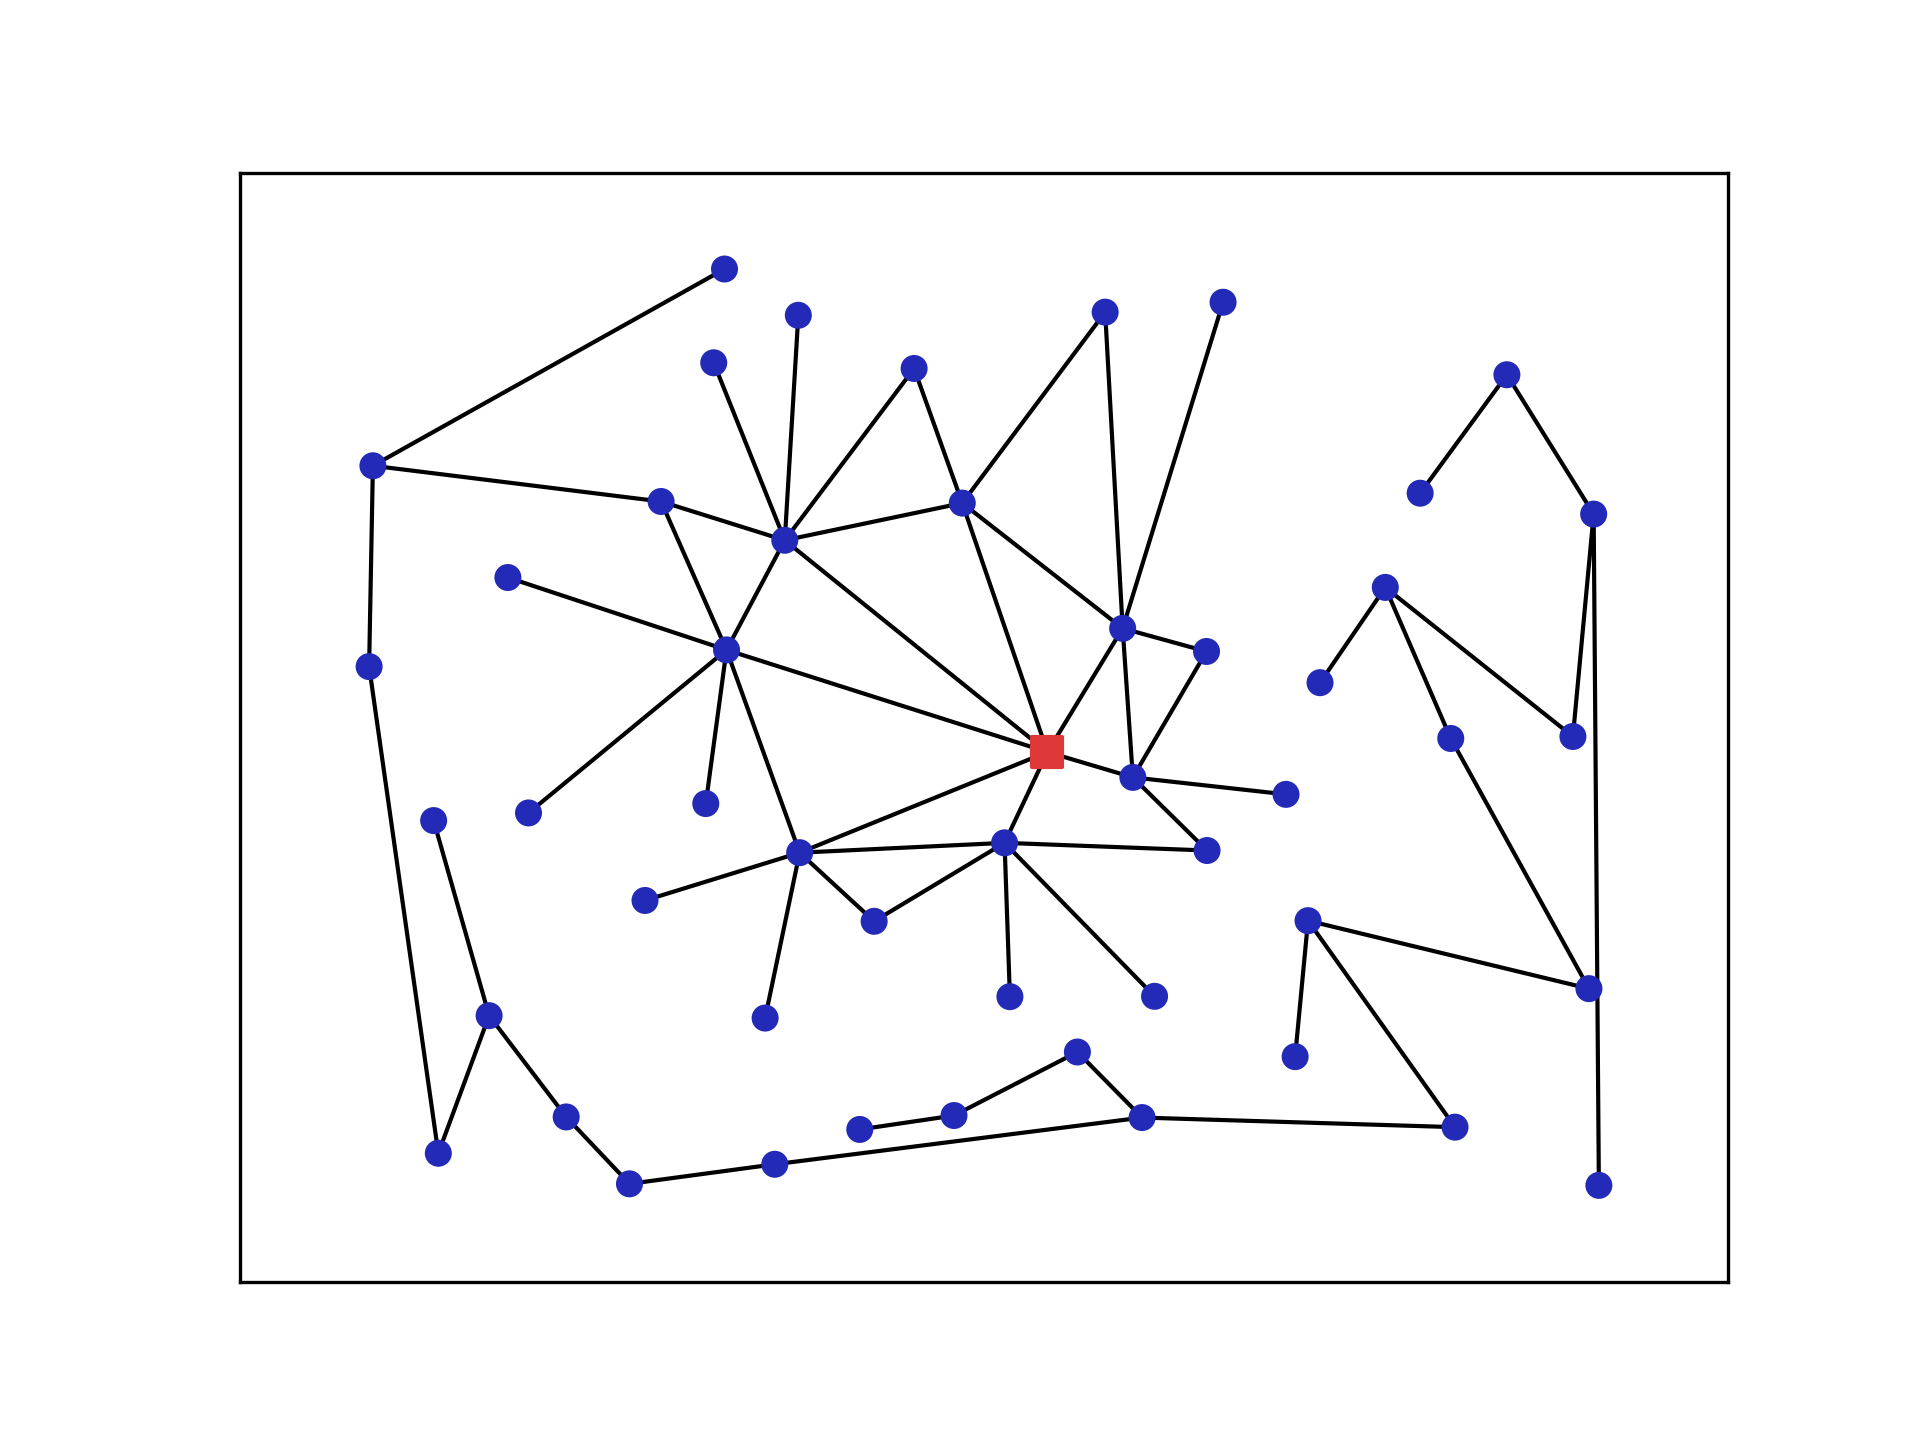
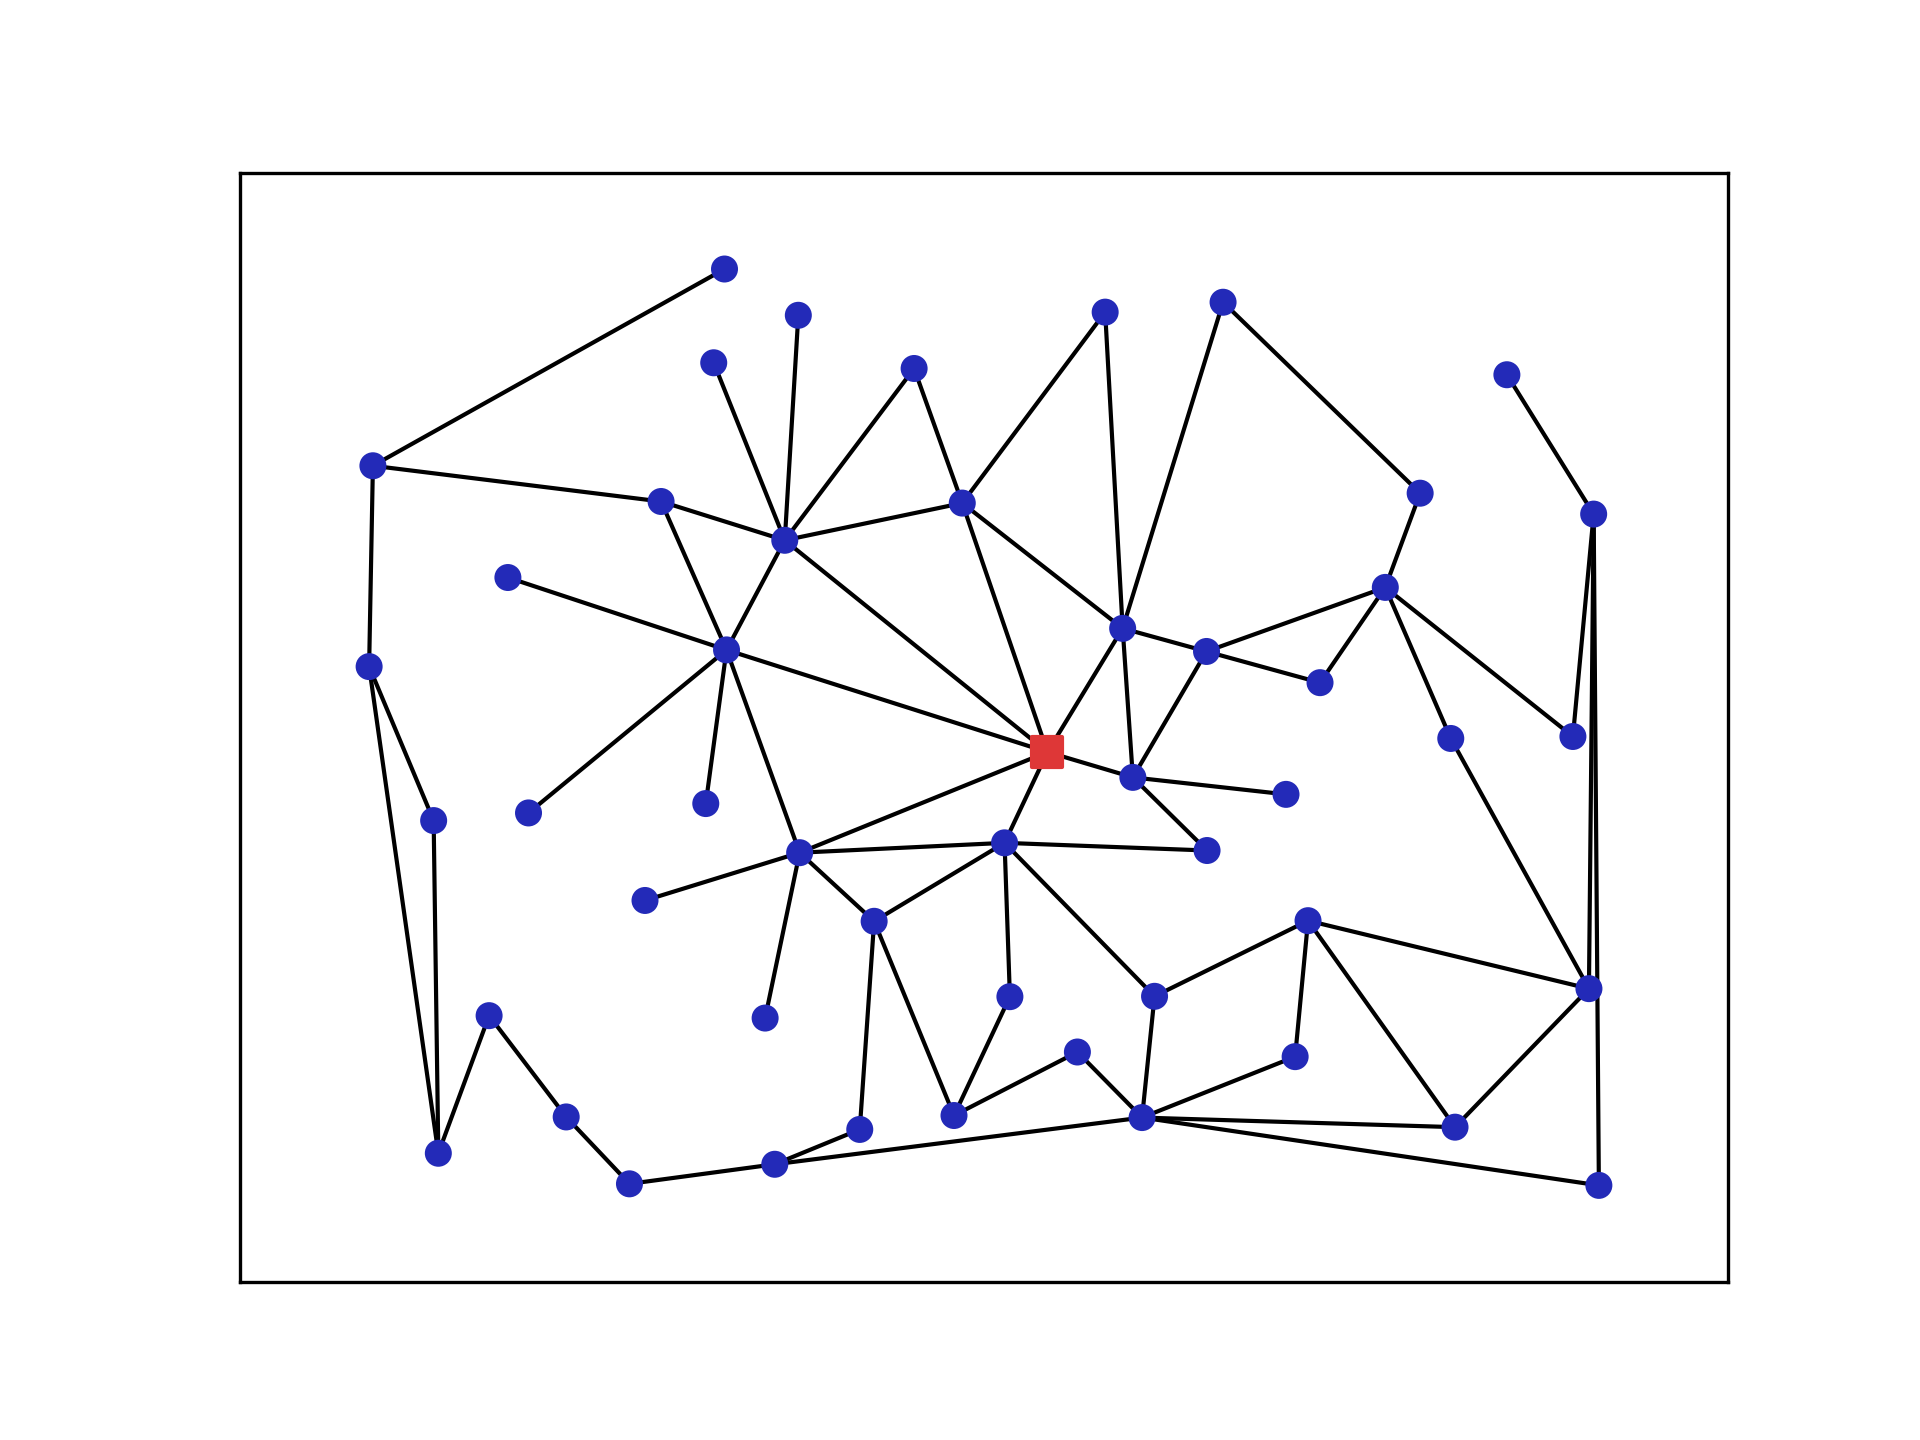
creating subproblem based on the access of the hub (i)

diff --git a/IsolatingData.py b/IsolatingData.py
@@ -1,0 +1,156 @@
+from turtle import color
+from reading_pickles import InputStructure
+from reading_pickles import read_data
+from gurobi_eng import Gurobi_Solve
+import pylab
+import os
+import pickle
+
+import numpy as np
+import networkx as nx
+import matplotlib.pyplot as plt
+
+import os
+from data_structures import OutputStructure
+import os
+
+def Write_Draw(Input: InputStructure, Output: OutputStructure):
+
+    CurrectFolder = os.path.dirname(os.path.abspath(__file__))
+    GNNPICOUT = CurrectFolder + "/GNNPICOUT"
+    GNNINPUT = CurrectFolder + "/GNNINPUT"
+
+    if not os.path.isdir(GNNPICOUT):
+        os.mkdir(GNNPICOUT)
+
+    FNAMEI = GNNPICOUT + '/' + Input.Fname + '_I.png'
+    FNAMED = GNNINPUT + '/' + str(int(Input.Fname)+70000) + '.txt'
+
+
+    if os.path.isfile(FNAMEI):
+        os.remove(FNAMEI)
+
+    if os.path.isfile(FNAMED):
+        os.remove(FNAMED)
+    
+
+    edgelistO = []
+    edgelistC = []
+    
+    edge_colors= ["#737373","#000000","#a9b0aa","#80d189","#ccbfbe","#ccbfbe","#ccbfbe"]
+
+    for i in range(Input.n-1):
+        for j in range(i+1, Input.n):
+            if Output.X[i][j] > 0.5:
+                edgelistO.append((i,j))
+                edgelistC.append(edge_colors[1])
+            elif Input.A[i,j] > 0.5:
+                edgelistO.append((i,j))
+                edgelistC.append(edge_colors[0])
+
+
+    NodeE = set()
+    for i in range(Input.n-1):
+        for j in range(i+1, Input.n):
+            if Output.X[i][j] > 0.5:
+                NodeE.update(set([i]))
+                NodeE.update(set([j]))
+
+
+    Positions = {}
+    n = Input.n
+    for x in range(Input.n):
+        Positions[x]=(Input.Pos[x][0],Input.Pos[x][1])
+    
+
+    node_colors= ["#232ab8","#de3737","#a9b0aa","#80d189","#ccbfbe","#ccbfbe","#ccbfbe"]
+    node_sizes = [30,50,7000,9000,11000,13000,15000]
+    node_shapes = ['s', 'o']
+
+
+    G = nx.Graph()
+    G.add_nodes_from(Positions.keys())
+    for a,p in Positions.items():
+        G.nodes[a]['pos'] = p 
+        if a == Input.sr:
+            G.nodes[a]['color'] = node_colors[1]
+            G.nodes[a]['size'] = node_sizes[1]
+            G.nodes[a]['shape'] = node_shapes[0]
+        elif a in NodeE:
+            G.nodes[a]['color'] = node_colors[0]
+            G.nodes[a]['size'] = node_sizes[0]
+            G.nodes[a]['shape'] = node_shapes[1]
+        else:
+            G.nodes[a]['color'] = node_colors[2]
+            G.nodes[a]['size'] = node_sizes[0]
+            G.nodes[a]['shape'] = node_shapes[1]
+
+    G.add_edges_from(edgelistO)
+
+    #nx.draw(G, Positions)
+    nx.draw_networkx_edges(G, Positions, edge_color=edgelistC)
+    '''
+    for shape in set(node_shapes):
+        # the nodes with the desired shapes
+        node_list = [node for node in G.nodes() if G.nodes[node]['shape'] == shape]
+        nx.draw_networkx_nodes(G,Positions,
+                            nodelist = node_list,
+                            node_size = [G.nodes[node]['size'] for node in node_list],
+                            node_color= [G.nodes[node]['color'] for node in node_list],
+                            node_shape = shape)
+    '''
+
+    for shape in set(node_shapes):
+        # the nodes with the desired shapes
+        node_list = [node for node in G.nodes() if G.nodes[node]['shape'] == shape]
+        nx.draw_networkx_nodes(
+                                G,
+                                Positions,
+                                nodelist = node_list,
+                                node_size  = [G.nodes[node]['size'] for node in node_list],
+                                node_color = [G.nodes[node]['color'] for node in node_list],
+                                node_shape = shape
+                            )
+
+    plt.savefig(FNAMEI, dpi=300)
+    plt.clf()
+
+
+    # ===================================================
+    # ========   creating new set of data  ==============
+    # ===================================================
+
+    New_A = np.delete(Input.A,)
+
+
+    out = open(FNAMED,'wb')
+    tmp_dic = {'A':Input.A, 'X':Input.X , 'T':Input.Theta, 'R': Input.sr, 'L':Input.Lmt, 'P':Input.Pos}
+
+    pickle.dump(tmp_dic, out)
+    out.close()
+
+
+def ExtactingNodes():
+    
+    St = 254
+    Ed = 255
+
+    for x in range(St, Ed):
+
+        InputDt = read_data(x)
+        cnt = 0
+
+        for x in range(InputDt.n):
+            for y in range(InputDt.n):
+                if InputDt.A[x,y]>0.5:
+                    cnt = cnt + 1
+
+        InputDt.Lmt = cnt + 100
+
+        ResultDt = Gurobi_Solve(InputDt, Lazy= False)
+        
+        #Save data and result
+        Write_Draw(InputDt, ResultDt)
+
+if __name__ == '__main__':
+    ExtactingNodes()

diff --git a/gurobi_eng.py b/gurobi_eng.py
@@ -7,8 +7,9 @@ from data import CreateData
 from data_structures import InputStructure
 from data_structures import OutputStructure
 import time
+from arg_parse import wait_key
 
-def Gurobi_Solve(InputData: InputStructure):
+def Gurobi_Solve(InputData: InputStructure, Lazy = True):
 
     try:
         #Data input
@@ -29,11 +30,17 @@ def Gurobi_Solve(InputData: InputStructure):
         obj = gp.QuadExpr()
         
         # Set quadratic part
+        cnt_negetive_trm = 0
         for Pindex in range(N):
             z = IndexMaker(N, Srow, Pindex)
 
             for i1,j1,i2,j2 in z:
                 obj.add(InputData.XTW[Pindex]*x[i1,j1]*x[i2,j2])
+
+            if InputData.XTW[Pindex] <= 0:
+                cnt_negetive_trm = cnt_negetive_trm + 1
+                print("We have negative/zero coefficient in objective function!!")
+                exit(3355)
 
         # Geting the number of quadratic term in objective function
         OutData.NQ =obj.size()
@@ -64,7 +71,10 @@ def Gurobi_Solve(InputData: InputStructure):
 
         # running the algorithm
         begin = time.time()
-        m.optimize(subtourelim)
+        if Lazy == True:
+            m.optimize(subtourelim)
+        else:
+            m.optimize()
         end = time.time()
 
         OutData.Time = end-begin

diff --git a/Test/test.py b/Test/test.py
@@ -1,7 +1,17 @@
+import numpy as np
 
-
-import networkx as nx
-import osmnx as ox
-import matplotlib.pyplot as plt
-ox.folium.plot_graph_folium(ox.graph_from_place('Bethlehem, PA, USA', network_type = 'drive')).save('Bethlehem.html') 
-
+a = np.arange(12).reshape(3, 4)
+print(a)
+# [[ 0  1  2  3]
+#  [ 4  5  6  7]
+#  [ 8  9 10 11]]
+print()
+a_del = np.delete(a, (0,2), 0)
+print(a_del)
+# [[ 0  1  2  3]
+#  [ 8  9 10 11]]
+print()
+print(a)
+# [[ 0  1  2  3]
+#  [ 4  5  6  7]
+#  [ 8  9 10 11]]

diff --git a/main.py b/main.py
@@ -7,12 +7,13 @@ from draw_graphs import Draw_Picture
 
 
 def RunMainFuntions():
+    
     St = 254
-    Ed = 269
+    Ed = 255
     for x in range(St, Ed):
         InputDt = read_data(x)
 
-        #InputDt.Lmt = int(InputDt.Lmt*0.1)
+        InputDt.Lmt = int(InputDt.Lmt*0.2)
 
         #InputDt.show()
         ResultDt = Gurobi_Solve(InputDt)
